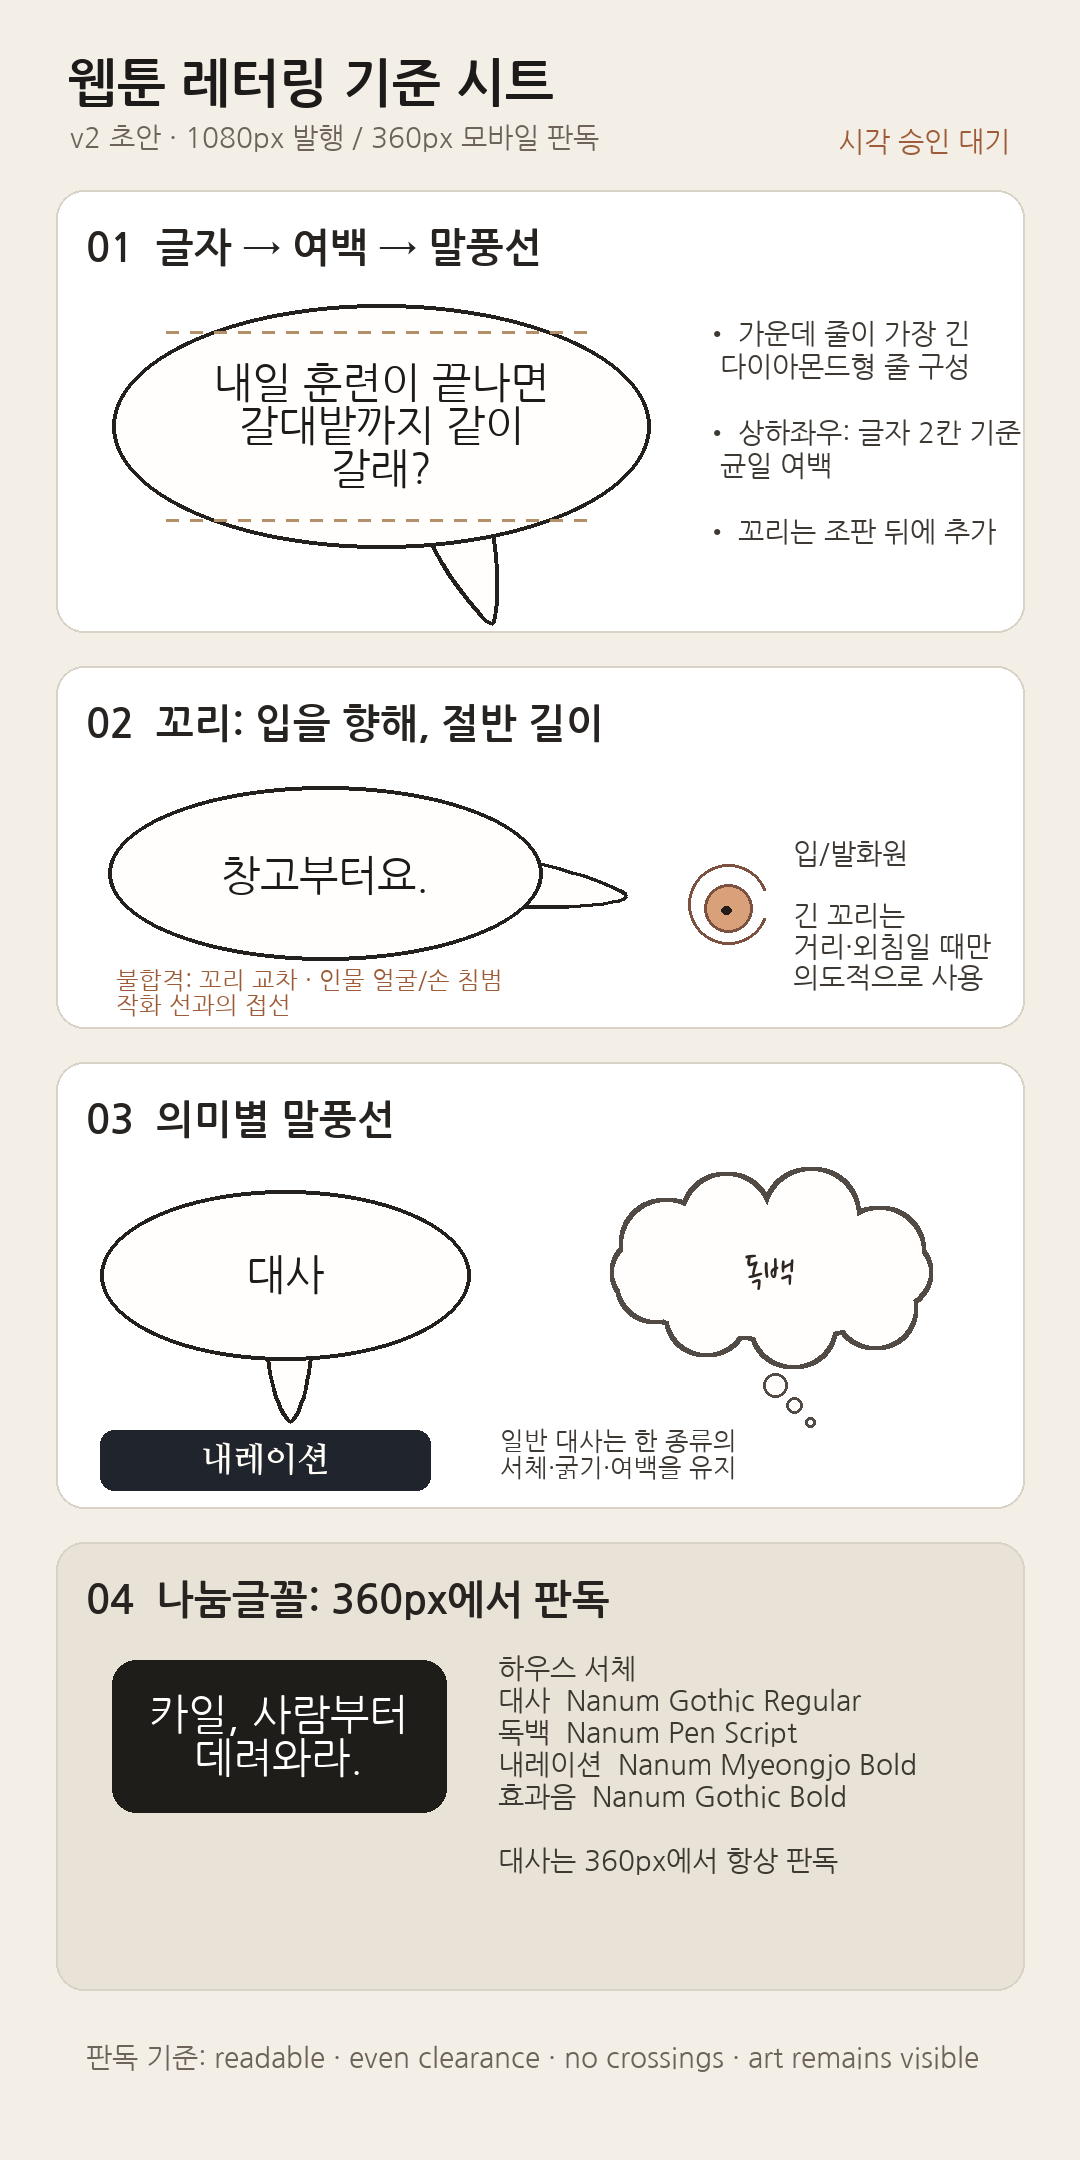
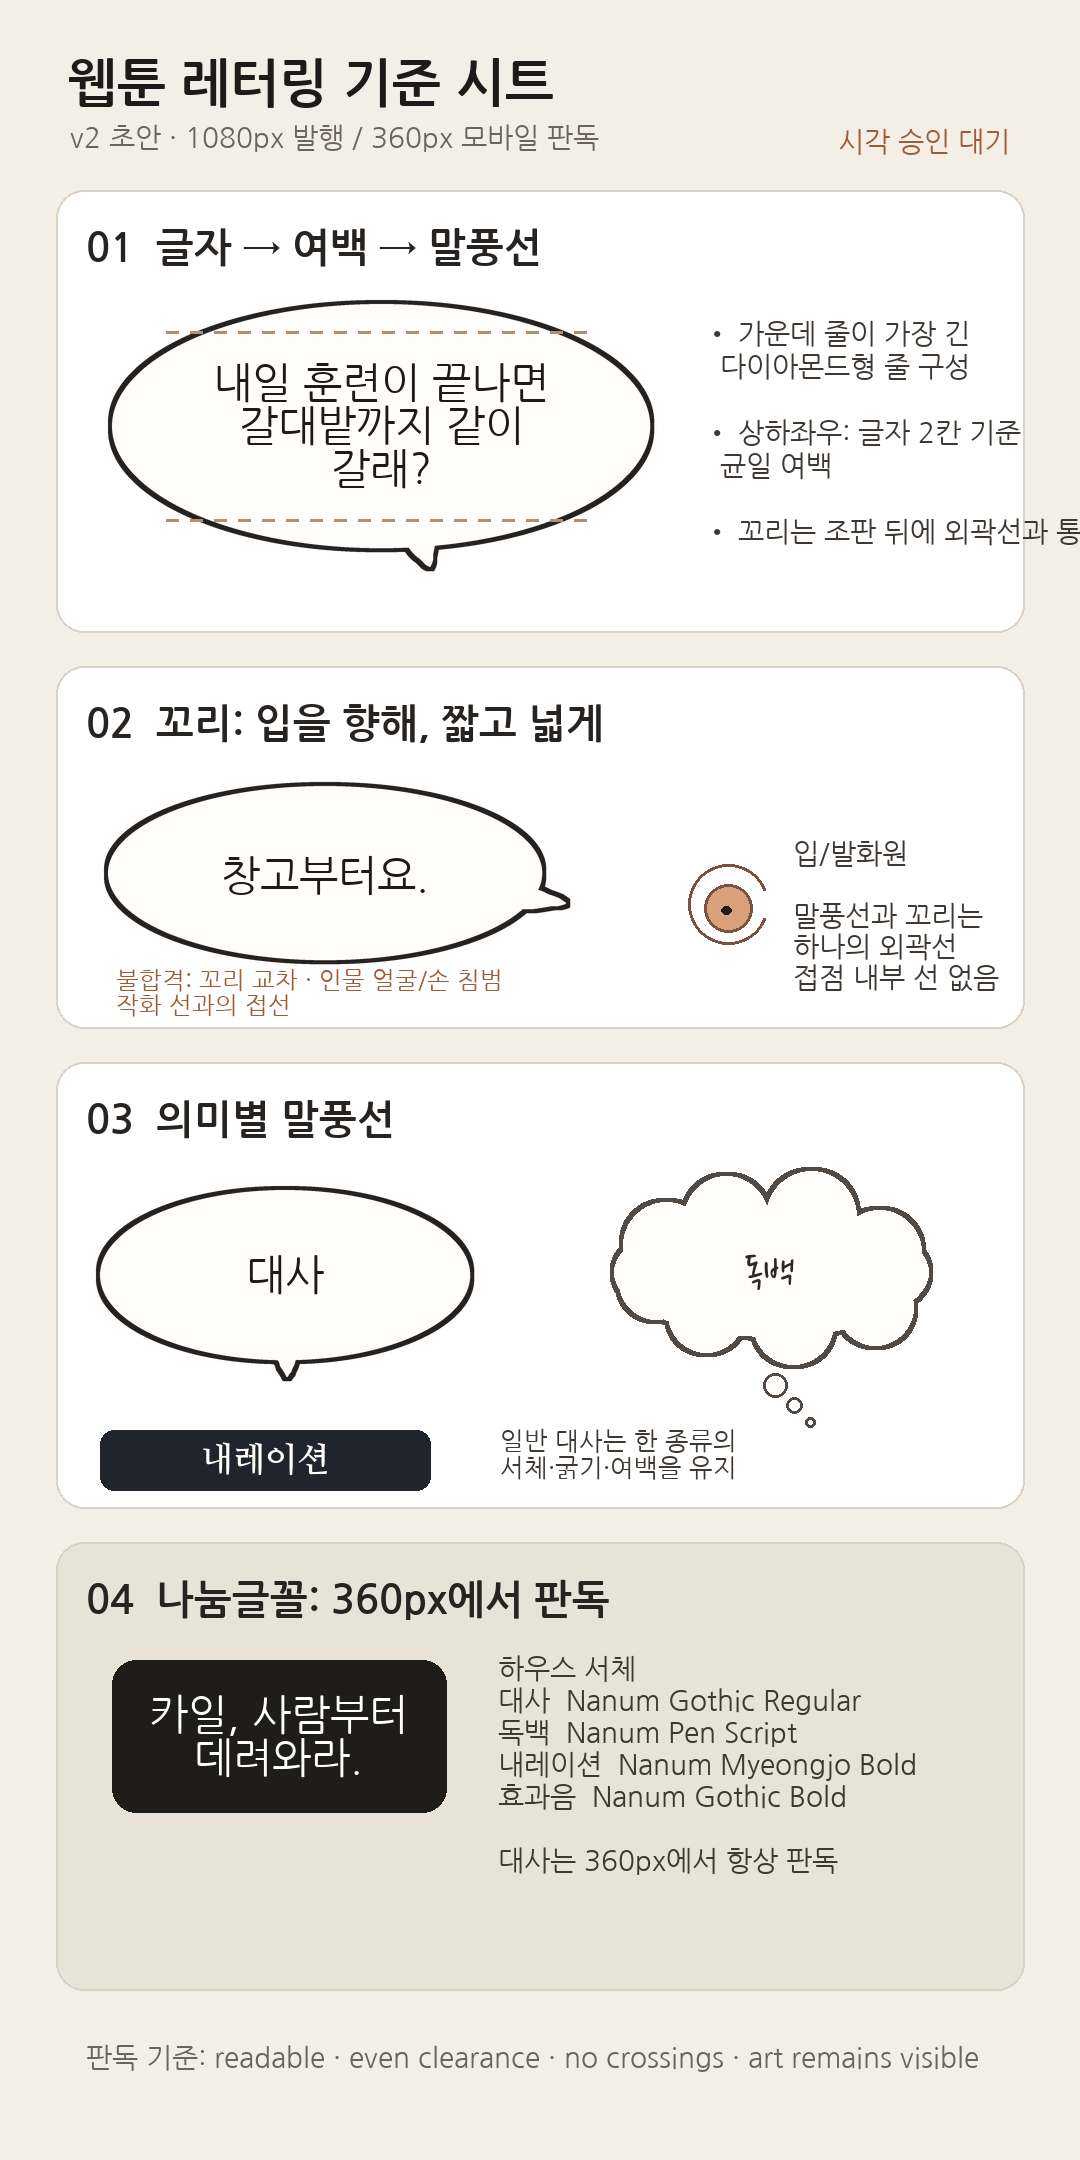
fix: unify speech balloon tails

diff --git a/webtoon_studio/lettering.py b/webtoon_studio/lettering.py
@@ -18,6 +18,7 @@ STYLE_PROFILE_PATH = REPOSITORY_ROOT / "assets" / "lettering" / "style-profile.j
 ELLIPSE_TEXT_RATIO = math.sqrt(2.0)
 MOBILE_REVIEW_WIDTH = 360
 MOBILE_MINIMUM_FONT_SIZE = {"dialogue": 12, "thought": 12, "caption": 11, "sfx": 15}
+TAIL_RENDER_SCALE = 4
 
 
 @lru_cache(maxsize=1)
@@ -334,7 +335,9 @@ def _tail_base(rect: Rect, target: tuple[int, int]) -> tuple[tuple[float, float]
     edge = (center_x + delta_x * boundary_scale, center_y + delta_y * boundary_scale)
     normal = (delta_x / distance, delta_y / distance)
     tangent = (-normal[1], normal[0])
-    half_base = max(5.0, min(radius_x, radius_y) * 0.095)
+    # A normal dialogue tail should read as a short, broad continuation of
+    # the balloon, not as a needle pointing at the speaker.
+    half_base = max(9.0, min(radius_x, radius_y) * 0.14)
     first = (edge[0] + tangent[0] * half_base, edge[1] + tangent[1] * half_base)
     second = (edge[0] - tangent[0] * half_base, edge[1] - tangent[1] * half_base)
     return first, second, edge, tangent
@@ -367,30 +370,92 @@ def _sample_cubic(
     return points
 
 
-def _draw_dialogue_tail(
-    draw: ImageDraw.ImageDraw,
+def _dialogue_tail_polygon(
     rect: Rect,
     target: tuple[int, int],
+) -> tuple[list[tuple[float, float]], tuple[float, float], tuple[float, float]] | None:
+    """Return a short, broad tail that overlaps the balloon's interior.
+
+    The overlap is intentional.  The dialogue balloon is rendered as one
+    union mask, so the original oval edge cannot remain as a line across the
+    point where this tail joins it.
+    """
+    base = _tail_base(rect, target)
+    if base is None:
+        return None
+    first, second, edge, tangent = base
+    minimum_dimension = min(rect[2] - rect[0], rect[3] - rect[1])
+    tip = _tail_tip(edge, target, max(18, round(minimum_dimension * 0.22)), 0.34)
+    if tip is None:
+        return None
+    length = math.dist(edge, tip)
+    normal = ((tip[0] - edge[0]) / length, (tip[1] - edge[1]) / length)
+    # Pull the base into the oval.  A unioned silhouette is what removes the
+    # unwanted internal outline at the tail/balloon join.
+    overlap = max(4.0, minimum_dimension * 0.055)
+    first = (first[0] - normal[0] * overlap, first[1] - normal[1] * overlap)
+    second = (second[0] - normal[0] * overlap, second[1] - normal[1] * overlap)
+    forward = min(length * 0.42, max(6.0, minimum_dimension * 0.075))
+    bend = min(5.0, math.dist(first, second) * 0.10)
+    first_curve = _sample_cubic(first, (first[0] + normal[0] * forward, first[1] + normal[1] * forward), (tip[0] + tangent[0] * bend, tip[1] + tangent[1] * bend), tip)
+    second_curve = _sample_cubic(tip, (tip[0] - tangent[0] * bend, tip[1] - tangent[1] * bend), (second[0] + normal[0] * forward, second[1] + normal[1] * forward), second)
+    return [(float(x), float(y)) for x, y in first_curve + second_curve[1:]], edge, tip
+
+
+def _scaled_rect(rect: Rect, scale: int) -> Rect:
+    return tuple(round(value * scale) for value in rect)  # type: ignore[return-value]
+
+
+def _dialogue_masks(
+    size: tuple[int, int],
+    rect: Rect,
+    target: tuple[int, int] | None,
+    stroke_width: int,
+) -> tuple[Image.Image, Image.Image, tuple[int, int]]:
+    """Create anti-aliased union masks for one seamless dialogue silhouette."""
+    tail = _dialogue_tail_polygon(rect, target) if target is not None else None
+    points = [
+        (float(rect[0]), float(rect[1])),
+        (float(rect[2]), float(rect[3])),
+    ]
+    if tail is not None:
+        points.extend(tail[0])
+    margin = stroke_width + 3
+    left = max(0, math.floor(min(point[0] for point in points)) - margin)
+    top = max(0, math.floor(min(point[1] for point in points)) - margin)
+    right = min(size[0], math.ceil(max(point[0] for point in points)) + margin)
+    bottom = min(size[1], math.ceil(max(point[1] for point in points)) + margin)
+    local_size = right - left, bottom - top
+    scale = TAIL_RENDER_SCALE
+    large_size = local_size[0] * scale, local_size[1] * scale
+    fill_mask = Image.new("L", large_size, 0)
+    draw = ImageDraw.Draw(fill_mask)
+    local_rect = rect[0] - left, rect[1] - top, rect[2] - left, rect[3] - top
+    draw.ellipse(_scaled_rect(local_rect, scale), fill=255)
+    if tail is not None:
+        tail_points, _, _ = tail
+        draw.polygon([(round((x - left) * scale), round((y - top) * scale)) for x, y in tail_points], fill=255)
+    kernel = max(3, stroke_width * scale * 2 + 1)
+    outline_mask = fill_mask.filter(ImageFilter.MaxFilter(kernel))
+    return (
+        outline_mask.resize(local_size, Image.Resampling.LANCZOS),
+        fill_mask.resize(local_size, Image.Resampling.LANCZOS),
+        (left, top),
+    )
+
+
+def _draw_seamless_dialogue_balloon(
+    overlay: Image.Image,
+    rect: Rect,
+    target: tuple[int, int] | None,
     fill: tuple[int, int, int, int],
     outline: tuple[int, int, int, int],
     stroke_width: int,
 ) -> None:
-    base = _tail_base(rect, target)
-    if base is None:
-        return
-    first, second, edge, tangent = base
-    tip = _tail_tip(edge, target, max(18, round(min(rect[2] - rect[0], rect[3] - rect[1]) * 0.32)), 0.55)
-    if tip is None:
-        return
-    length = math.dist(edge, tip)
-    normal = ((tip[0] - edge[0]) / length, (tip[1] - edge[1]) / length)
-    forward = min(length * 0.34, max(5.0, min(rect[2] - rect[0], rect[3] - rect[1]) * 0.11))
-    bend = min(6.0, math.dist(first, second) * 0.16)
-    first_curve = _sample_cubic(first, (first[0] + normal[0] * forward, first[1] + normal[1] * forward), (tip[0] + tangent[0] * bend, tip[1] + tangent[1] * bend), tip)
-    second_curve = _sample_cubic(tip, (tip[0] - tangent[0] * bend, tip[1] - tangent[1] * bend), (second[0] + normal[0] * forward, second[1] + normal[1] * forward), second)
-    points = first_curve + second_curve[1:]
-    draw.polygon(points, fill=fill)
-    draw.line(points + [points[0]], fill=outline, width=stroke_width, joint="curve")
+    """Paint the outer contour once, without a tail/oval junction line."""
+    outline_mask, fill_mask, origin = _dialogue_masks(overlay.size, rect, target, stroke_width)
+    overlay.paste(outline, origin, outline_mask)
+    overlay.paste(fill, origin, fill_mask)
 
 
 def _draw_thought_tail(
@@ -413,16 +478,6 @@ def _draw_thought_tail(
         x = round(edge[0] + (tip[0] - edge[0]) * ratio)
         y = round(edge[1] + (tip[1] - edge[1]) * ratio)
         draw.ellipse((x - radius, y - radius, x + radius, y + radius), fill=fill, outline=outline, width=stroke_width)
-
-
-def _draw_organic_oval(
-    draw: ImageDraw.ImageDraw,
-    rect: Rect,
-    fill: tuple[int, int, int, int],
-    outline: tuple[int, int, int, int],
-    stroke_width: int,
-) -> None:
-    draw.ellipse(rect, fill=fill, outline=outline, width=stroke_width)
 
 
 def _cloud_mask(size: tuple[int, int], rect: Rect) -> Image.Image:
@@ -498,9 +553,15 @@ def apply_lettering(image: Image.Image, brief: dict[str, Any], font_path: str | 
             _draw_cloud(overlay, text_rect, fill, outline, stroke_width)
             draw = ImageDraw.Draw(overlay)
         elif kind == "dialogue":
-            if plan["tail_target"] is not None:
-                _draw_dialogue_tail(draw, text_rect, plan["tail_target"], fill, outline, stroke_width)
-            _draw_organic_oval(draw, text_rect, fill, outline, stroke_width)
+            _draw_seamless_dialogue_balloon(
+                overlay,
+                text_rect,
+                plan["tail_target"],
+                fill,
+                outline,
+                stroke_width,
+            )
+            draw = ImageDraw.Draw(overlay)
         _draw_centered_text(
             draw,
             text_rect,

diff --git a/tools/generate_lettering_reference_sheet.py b/tools/generate_lettering_reference_sheet.py
@@ -8,8 +8,12 @@ from pathlib import Path
 
 from PIL import Image, ImageDraw, ImageFilter, ImageFont
 
-
 ROOT = Path(__file__).resolve().parents[1]
+sys.path.insert(0, str(ROOT))
+
+from webtoon_studio.lettering import _color, _draw_seamless_dialogue_balloon
+
+
 FONT_DIR = ROOT / "assets" / "fonts"
 STANDARD_PATH = ROOT / "assets" / "lettering" / "lettering-standard-v2.json"
 DEFAULT_OUTPUT = ROOT / "assets" / "lettering" / "lettering-standard-sheet.png"
@@ -42,28 +46,16 @@ def cubic_points(start: tuple[float, float], control_one: tuple[float, float], c
     return points
 
 
-def bubble(draw: ImageDraw.ImageDraw, box: tuple[int, int, int, int], tail: tuple[int, int] | None = None) -> None:
-    left, top, right, bottom = box
-    if tail is not None:
-        center_x = (left + right) // 2
-        center_y = (top + bottom) // 2
-        delta_x, delta_y = tail[0] - center_x, tail[1] - center_y
-        distance = max(1, math.hypot(delta_x, delta_y))
-        normal_x, normal_y = delta_x / distance, delta_y / distance
-        edge_x = center_x + normal_x * (right - left) * 0.44
-        edge_y = center_y + normal_y * (bottom - top) * 0.44
-        tangent_x, tangent_y = -normal_y, normal_x
-        base = min(right - left, bottom - top) * 0.13
-        first = (edge_x + tangent_x * base, edge_y + tangent_y * base)
-        second = (edge_x - tangent_x * base, edge_y - tangent_y * base)
-        tip = (round(edge_x + normal_x * min(distance * 0.52, 112)), round(edge_y + normal_y * min(distance * 0.52, 112)))
-        forward = min(math.dist((edge_x, edge_y), tip) * 0.4, 32)
-        curve_one = cubic_points(first, (first[0] + normal_x * forward, first[1] + normal_y * forward), (tip[0] + tangent_x * 8, tip[1] + tangent_y * 8), tip)
-        curve_two = cubic_points(tip, (tip[0] - tangent_x * 8, tip[1] - tangent_y * 8), (second[0] + normal_x * forward, second[1] + normal_y * forward), second)
-        tail_points = curve_one + curve_two[1:]
-        draw.polygon(tail_points, fill="#fffefd")
-        draw.line(tail_points + [tail_points[0]], fill="#24201e", width=4, joint="curve")
-    draw.ellipse(box, fill="#fffefd", outline="#24201e", width=4)
+def bubble(image: Image.Image, box: tuple[int, int, int, int], tail: tuple[int, int] | None = None) -> None:
+    """Use the production union-contour renderer in the review reference."""
+    _draw_seamless_dialogue_balloon(
+        image,
+        box,
+        tail,
+        _color("#fffefd"),
+        _color("#24201e"),
+        4,
+    )
 
 
 def cloud(image: Image.Image, box: tuple[int, int, int, int]) -> None:
@@ -106,7 +98,7 @@ def main() -> int:
     output = args.out.resolve()
     output.parent.mkdir(parents=True, exist_ok=True)
 
-    image = Image.new("RGB", (1080, 2160), "#f3efe7")
+    image = Image.new("RGBA", (1080, 2160), "#f3efe7")
     draw = ImageDraw.Draw(image)
     title = load_font("NanumGothic-Bold.ttf", 52)
     section_title = load_font("NanumGothic-Bold.ttf", 40)
@@ -121,20 +113,20 @@ def main() -> int:
 
     rounded_panel(draw, (56, 190, 1024, 632))
     draw.text((86, 228), "01  글자 → 여백 → 말풍선", font=section_title, fill="#272320")
-    bubble(draw, (112, 304, 650, 548), tail=(445, 610))
+    bubble(image, (112, 304, 650, 548), tail=(445, 610))
     centered(draw, (170, 336, 592, 516), "내일 훈련이 끝나면\n갈대밭까지 같이\n갈래?", dialogue, "#1d1b1a")
     dashed_line(draw, (166, 332), (596, 332), "#b49068")
     dashed_line(draw, (166, 520), (596, 520), "#b49068")
-    draw.multiline_text((704, 320), "• 가운데 줄이 가장 긴\n  다이아몬드형 줄 구성\n\n• 상하좌우: 글자 2칸 기준\n  균일 여백\n\n• 꼬리는 조판 뒤에 추가", font=body, fill="#3e3833", spacing=9)
+    draw.multiline_text((704, 320), "• 가운데 줄이 가장 긴\n  다이아몬드형 줄 구성\n\n• 상하좌우: 글자 2칸 기준\n  균일 여백\n\n• 꼬리는 조판 뒤에 외곽선과 통합", font=body, fill="#3e3833", spacing=9)
 
     rounded_panel(draw, (56, 666, 1024, 1028))
-    draw.text((86, 704), "02  꼬리: 입을 향해, 절반 길이", font=section_title, fill="#272320")
-    bubble(draw, (108, 786, 542, 960), tail=(720, 922))
+    draw.text((86, 704), "02  꼬리: 입을 향해, 짧고 넓게", font=section_title, fill="#272320")
+    bubble(image, (108, 786, 542, 960), tail=(720, 922))
     centered(draw, (164, 816, 486, 936), "창고부터요.", dialogue, "#1d1b1a")
     draw.ellipse((704, 884, 752, 932), fill="#d8a17a", outline="#7d5140", width=3)
     draw.arc((688, 864, 768, 944), 20, 340, fill="#7d5140", width=3)
     draw.ellipse((721, 906, 731, 914), fill="#241c1a")
-    draw.multiline_text((793, 840), "입/발화원\n\n긴 꼬리는\n거리·외침일 때만\n의도적으로 사용", font=body, fill="#3e3833", spacing=7)
+    draw.multiline_text((793, 840), "입/발화원\n\n말풍선과 꼬리는\n하나의 외곽선\n접점 내부 선 없음", font=body, fill="#3e3833", spacing=7)
     draw.multiline_text(
         (116, 968),
         "불합격: 꼬리 교차 · 인물 얼굴/손 침범\n작화 선과의 접선",
@@ -145,7 +137,7 @@ def main() -> int:
 
     rounded_panel(draw, (56, 1062, 1024, 1508))
     draw.text((86, 1100), "03  의미별 말풍선", font=section_title, fill="#272320")
-    bubble(draw, (100, 1190, 470, 1360), tail=(288, 1412))
+    bubble(image, (100, 1190, 470, 1360), tail=(288, 1412))
     centered(draw, (142, 1220, 428, 1330), "대사", dialogue, "#1d1b1a")
     cloud(image, (590, 1180, 952, 1360))
     draw = ImageDraw.Draw(image)
@@ -169,7 +161,7 @@ def main() -> int:
     draw.multiline_text((498, 1655), "하우스 서체\n대사  Nanum Gothic Regular\n독백  Nanum Pen Script\n내레이션  Nanum Myeongjo Bold\n효과음  Nanum Gothic Bold\n\n대사는 360px에서 항상 판독", font=body, fill="#3e3833", spacing=8)
     draw.text((86, 2044), "판독 기준: readable · even clearance · no crossings · art remains visible", font=body, fill="#6d635b")
 
-    image.save(output, format="PNG")
+    image.convert("RGB").save(output, format="PNG")
     print(output)
     return 0
 

diff --git a/tests/test_compose_qc.py b/tests/test_compose_qc.py
@@ -1,5 +1,6 @@
 from __future__ import annotations
 
+import math
 import shutil
 import tempfile
 import unittest
@@ -11,7 +12,14 @@ from webtoon_studio.balloon_assets import BalloonAssetError, balloon_asset_spec,
 from webtoon_studio.compiler import compile_brief, load_configs
 from webtoon_studio.compose import compose_episode, ordered_shot_ids, slice_master
 from webtoon_studio.io_utils import dump_json, load_json
-from webtoon_studio.lettering import apply_lettering, bundled_font_paths, lettering_profile, load_font, plan_lettering
+from webtoon_studio.lettering import (
+    _dialogue_tail_polygon,
+    apply_lettering,
+    bundled_font_paths,
+    lettering_profile,
+    load_font,
+    plan_lettering,
+)
 from webtoon_studio.placement import contains as rect_contains
 from webtoon_studio.qc import inspect_episode
 
@@ -181,6 +189,33 @@ class ComposeQcTests(unittest.TestCase):
         self.assertTrue(rect_contains(plan["bounds"], plan["rect"]))
         self.assertEqual(0.0, plan["subject_overlap_ratio"])
         self.assertIsNone(plan["svg_asset"])
+
+    def test_dialogue_tail_is_short_and_has_no_internal_join_outline(self) -> None:
+        source = Image.new("RGB", (640, 960), "#60758a")
+        brief = {
+            "text": {
+                "mode": "deterministic_lettering",
+                "items": [
+                    {
+                        "kind": "dialogue",
+                        "content": "Okay.",
+                        "anchor_norm": {"x": 0.24, "y": 0.10, "width": 0.42, "height": 0.20},
+                        "tail_target_norm": {"x": 0.46, "y": 0.82},
+                    }
+                ],
+                "reserved_regions": [{"x": 0.12, "y": 0.04, "width": 0.70, "height": 0.42}],
+            }
+        }
+
+        plan = plan_lettering(brief, source.size)[0]
+        tail = _dialogue_tail_polygon(plan["rect"], plan["tail_target"])
+        self.assertIsNotNone(tail)
+        _, edge, tip = tail  # type: ignore[misc]
+        self.assertLessEqual(math.dist(edge, tip), min(plan["rect"][2] - plan["rect"][0], plan["rect"][3] - plan["rect"][1]) * 0.23)
+
+        rendered = apply_lettering(source, brief)
+        join_pixel = rendered.getpixel((round(edge[0]), round(edge[1])))
+        self.assertGreater(min(join_pixel), 235, "The tail join must remain balloon fill, not an oval outline seam")
 
     def test_lettering_uses_the_bundled_house_fonts(self) -> None:
         profile = lettering_profile()

diff --git a/tests/test_lettering_standard.py b/tests/test_lettering_standard.py
@@ -23,7 +23,8 @@ class LetteringStandardTests(unittest.TestCase):
         self.assertEqual(360, standard["review_target"]["mobile_review_width_px"])
         self.assertEqual(2, standard["text_first_layout"]["inner_clearance"]["target_each_side"])
         self.assertEqual(3, standard["balloon_semantics"]["thought"]["minimum_dot_count"])
-        self.assertEqual(0.5, standard["balloon_semantics"]["dialogue"]["tail_gap_fraction"]["preferred"])
+        self.assertEqual(0.34, standard["balloon_semantics"]["dialogue"]["tail_gap_fraction"]["preferred"])
+        self.assertIn("seamless", standard["balloon_semantics"]["dialogue"]["contour"])
         self.assertEqual("https://github.com/wenn-id/comicsol", standard["implementation_boundary"]["reference_engine"])
         self.assertIn("seamless_curved_tail_rendering", standard["implementation_boundary"]["adopt_patterns"])
         self.assertEqual("NanumGothic-Regular.ttf", standard["type_selection"]["selected_house_type_system"]["dialogue"])

diff --git a/.agents/skills/webtoon-lettering/references/research-principles.md b/.agents/skills/webtoon-lettering/references/research-principles.md
@@ -21,10 +21,12 @@ webtoon panels or store screenshots in the repository.
 - Create clean path-like balloon contours. Normal dialogue balloons are
   consistent in outline width, tail width, and proportion; random wobble is not
   a substitute for a hand-drawn style.
-- Aim a dialogue tail at the mouth or emitting object. End it roughly halfway
-  to three-fifths of the gap to the speaker unless distance is a deliberate
-  story signal. Thought balloons use at least three diminishing dots aimed at
-  the head.
+- Aim a dialogue tail at the mouth or emitting object. Make it a short, broad
+  continuation of the balloon silhouette; normally end it about one third of
+  the gap to the speaker and never more than two fifths unless distance is a
+  deliberate story signal. The balloon's oval contour must not remain as an
+  internal line across the tail join. Thought balloons use at least three
+  diminishing dots aimed at the head.
 - Put the first balloon higher, preserve top-to-bottom scroll order, and do not
   cross tails or construct a wall between speakers. Space close turns closer
   only when the timing is intentionally immediate.

diff --git a/.agents/skills/webtoon-lettering/SKILL.md b/.agents/skills/webtoon-lettering/SKILL.md
@@ -28,7 +28,9 @@ The standard is text-first:
 3. Size the balloon from the text block using a consistent glyph-relative
    clearance.
 4. Add the tail last, aiming dialogue at the mouth and thought dots at the
-   head.
+   head. A dialogue tail is a short, broad continuation of the balloon's
+   outer contour: render balloon and tail as one joined silhouette, with no
+   internal outline at their junction. Do not use a long needle-like triangle.
 
 The approved 56-shape pack is vectorized at
 `assets/lettering/reference-balloons-56/vectors/`. It is an explicit special
